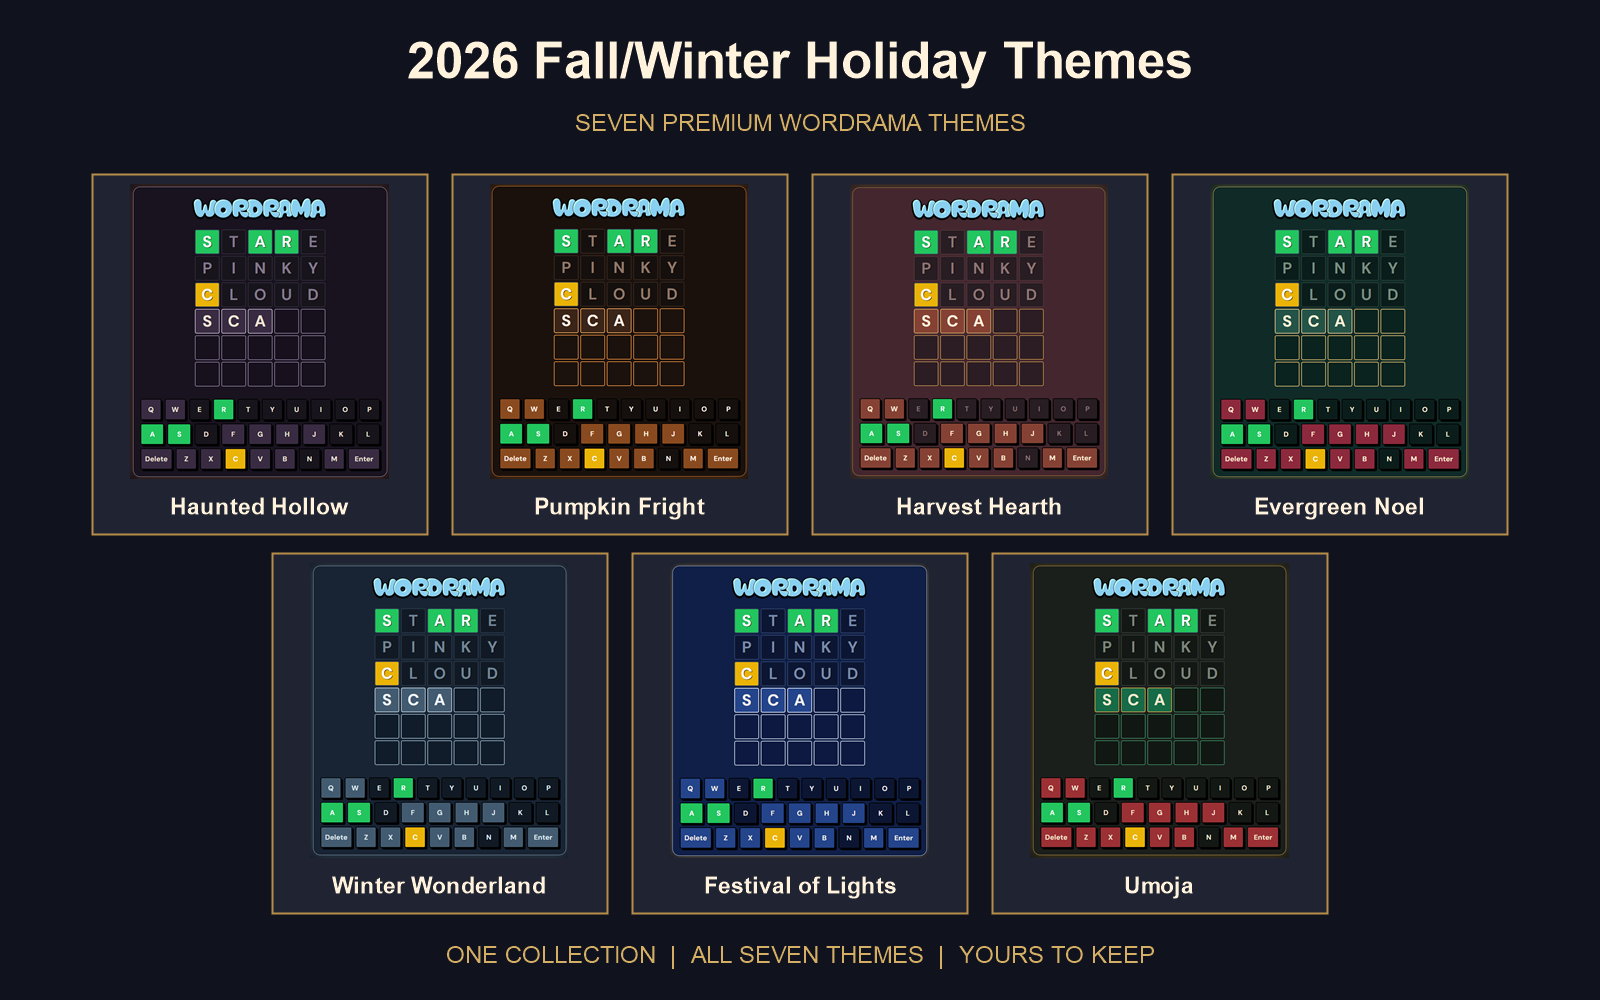
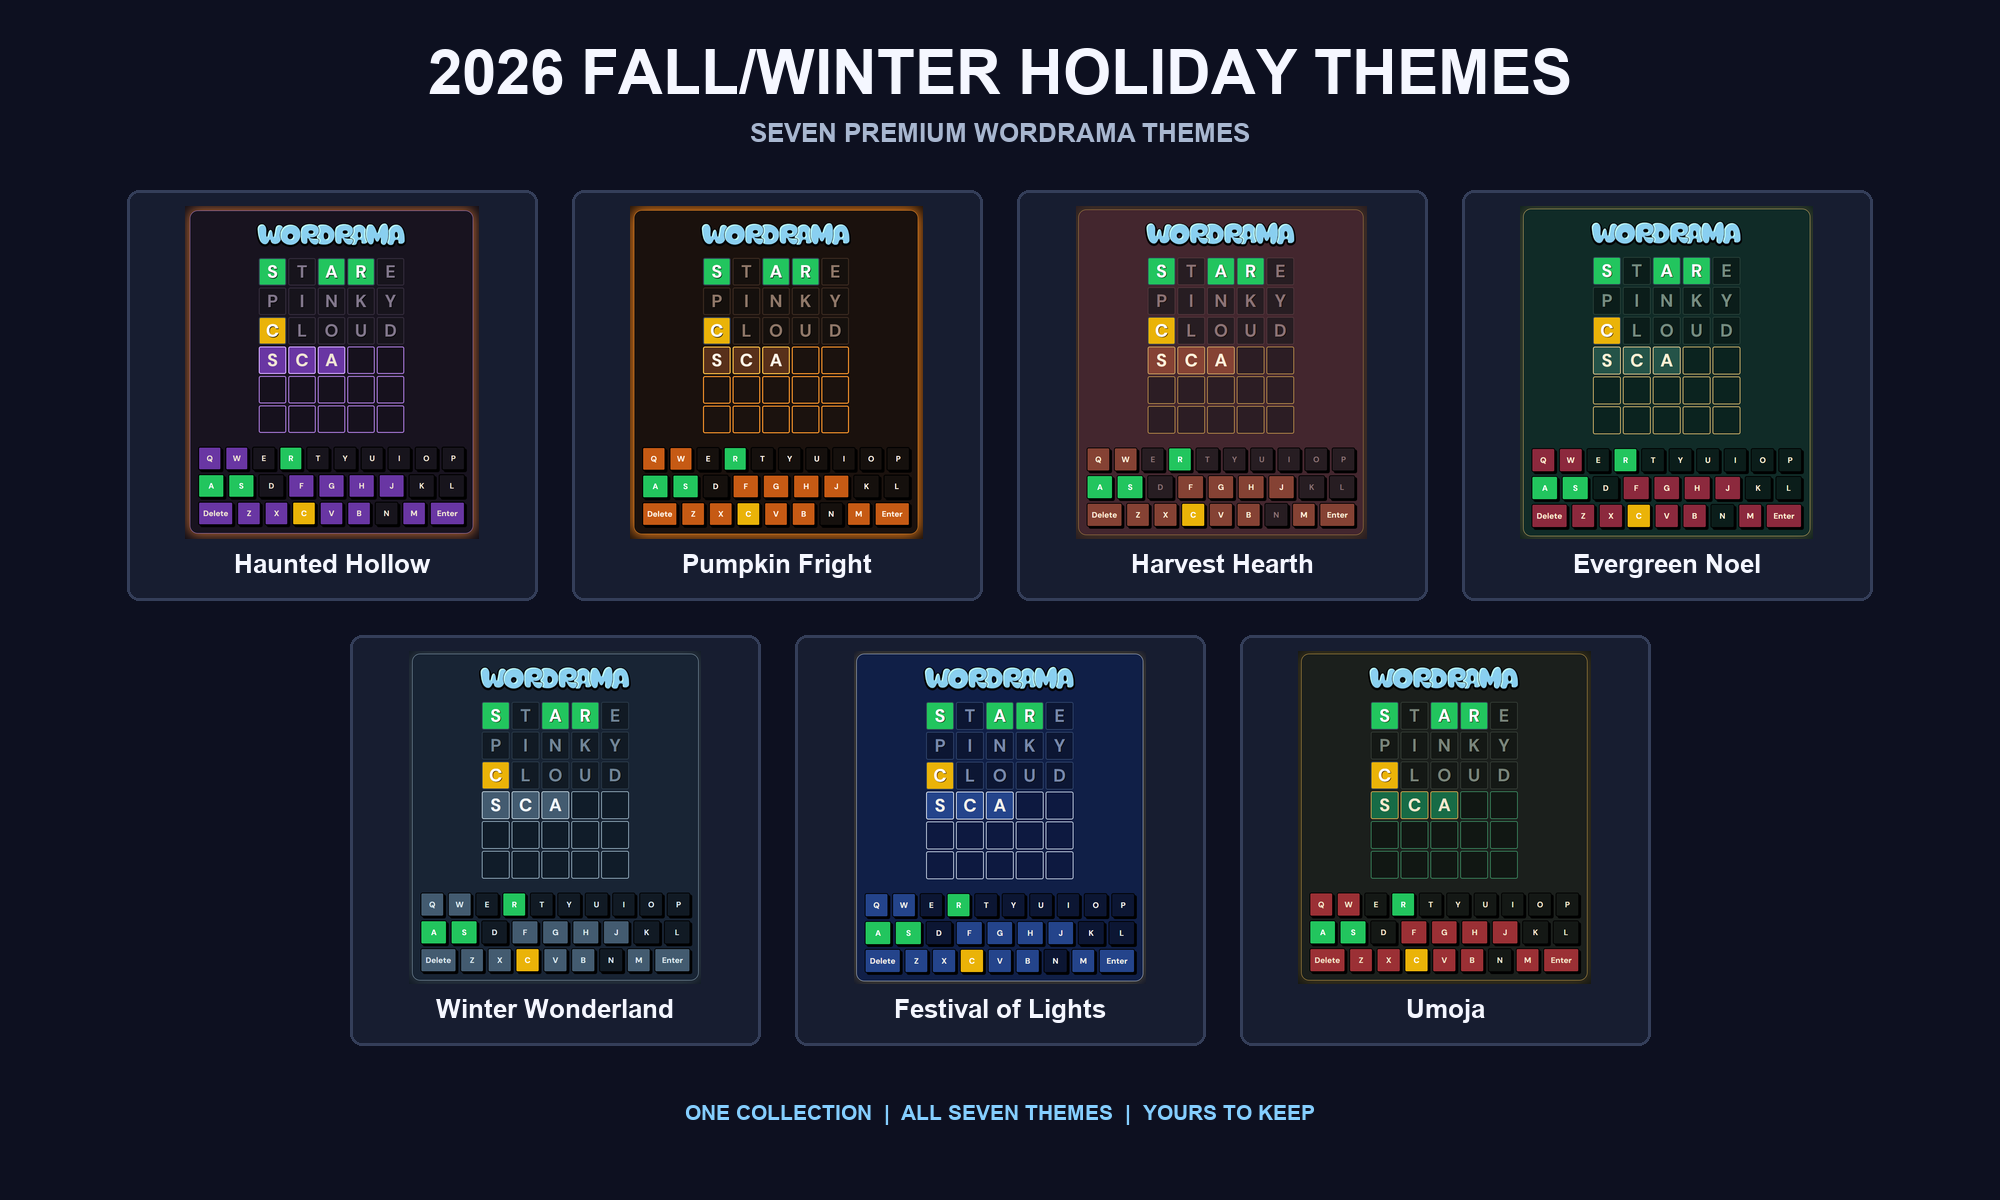
style: brighten Halloween theme palettes and refresh previews

Changed region(s): [[0.0625, 0.031, 0.9375, 0.961]]

diff --git a/wordrama-v2-main/wordrama-v2-main/src/config/themes.ts b/wordrama-v2-main/wordrama-v2-main/src/config/themes.ts
@@ -1185,12 +1185,12 @@ export const appearanceThemes: AppearanceTheme[] = [
     app: {
       background: 'bg-[#100D16]',
       panel:
-        'bg-[#201827] text-[#F0E5D5] border border-[#74667F]',
+        'bg-[#201827] text-[#F0E5D5] border border-[#9364C8]',
       text: 'text-[#F0E5D5]',
       gameSurface:
-        'bg-[#18131F] text-[#F0E5D5] border border-[#A99BB8] shadow-[0_0_24px_3px_rgba(185,104,53,0.35)]',
+        'bg-[#18131F] text-[#F0E5D5] border border-[#B78AE8] shadow-[0_0_24px_3px_rgba(185,104,53,1.0)]',
       actionButton:
-        'bg-[#382B42] hover:bg-[#4D3A59] active:bg-[#201827] text-[#F0E5D5] border border-[#B96835] shadow-[0_0_10px_rgba(185,104,53,0.20)]',
+        'bg-[#6936A3] hover:bg-[#8145C4] active:bg-[#201827] text-[#F0E5D5] border border-[#B96AFF] shadow-[0_0_10px_rgba(185,104,53,0.20)]',
     },
 
     surface: {
@@ -1207,16 +1207,16 @@ export const appearanceThemes: AppearanceTheme[] = [
 
     board: {
       emptyCell:
-        'bg-[#16111D] border-[#887794] text-[#F0E5D5]',
+        'bg-[#16111D] border-[#A879D9] text-[#F0E5D5]',
       filledCell:
-        'bg-[#382B42] border-[#C2B1CD] text-[#F0E5D5]',
+        'bg-[#6936A3] border-[#D2A8FF] text-[#F0E5D5]',
       absentCell:
         'bg-[#17141C] border-[#332B3B] text-[#82778C]',
     },
 
     keyboard: {
       key:
-        'bg-[#382B42] hover:bg-[#4D3A59] active:bg-[#5B4768] border border-[#74667F]',
+        'bg-[#6936A3] hover:bg-[#8145C4] active:bg-[#9957DE] border border-[#9364C8]',
       keyText: 'text-[#F0E5D5]',
       absentKey:
         'bg-[#17141C] border border-[#332B3B] text-[#82778C]',
@@ -1224,7 +1224,7 @@ export const appearanceThemes: AppearanceTheme[] = [
 
     modal: {
       container:
-        'bg-[#201827] border border-[#A99BB8] text-[#F0E5D5] shadow-2xl shadow-black/80',
+        'bg-[#201827] border border-[#B78AE8] text-[#F0E5D5] shadow-2xl shadow-black/80',
       title: 'text-[#F0E5D5]',
       icon: 'stroke-[#D2EDD8]',
     },
@@ -1233,7 +1233,7 @@ export const appearanceThemes: AppearanceTheme[] = [
       success: 'text-[#9ED8B4]',
       warning: 'text-[#E6C275]',
       error: 'text-[#E89A9A]',
-      info: 'text-[#C2B1CD]',
+      info: 'text-[#D2A8FF]',
     },
 
     overlay: {
@@ -1241,8 +1241,8 @@ export const appearanceThemes: AppearanceTheme[] = [
     },
 
     border: {
-      default: 'border-[#74667F]',
-      strong: 'border-[#C2B1CD]',
+      default: 'border-[#9364C8]',
+      strong: 'border-[#D2A8FF]',
     },
 
     effects: {
@@ -1261,12 +1261,12 @@ export const appearanceThemes: AppearanceTheme[] = [
 
     app: {
       background: 'bg-[#120B08]',
-      panel: 'bg-[#22130D] text-[#F6E8D2] border border-[#C96B2C]',
+      panel: 'bg-[#22130D] text-[#F6E8D2] border border-[#FF8A1F]',
       text: 'text-[#F6E8D2]',
       gameSurface:
-        'bg-[#1A110D] text-[#F6E8D2] border border-[#E28A3B] shadow-[0_0_30px_4px_rgba(226,138,59,0.35)]',
+        'bg-[#1A110D] text-[#F6E8D2] border border-[#FF982C] shadow-[0_0_30px_4px_rgba(255,138,31,1.0)]',
       actionButton:
-        'bg-[#8A4A1F] hover:bg-[#A85A28] active:bg-[#6B3514] text-[#FFF4E8] border border-[#F2A65A] shadow-[0_0_10px_rgba(226,138,59,0.28)]',
+        'bg-[#C65A14] hover:bg-[#E87318] active:bg-[#A9470D] text-[#FFF4E8] border border-[#FFC247] shadow-[0_0_10px_rgba(255,138,31,0.35)]',
     },
 
     surface: {
@@ -1283,16 +1283,16 @@ export const appearanceThemes: AppearanceTheme[] = [
 
     board: {
       emptyCell:
-        'bg-[#1B120E] border-[#E28A3B] text-[#F6E8D2]',
+        'bg-[#1B120E] border-[#FF982C] text-[#F6E8D2]',
       filledCell:
-        'bg-[#3B2418] border-[#F2A65A] text-[#FFF4E8]',
+        'bg-[#58301A] border-[#FFC247] text-[#FFF4E8]',
       absentCell:
         'bg-[#15100D] border-[#3B2A20] text-[#8F7768]',
     },
 
     keyboard: {
       key:
-        'bg-[#8A4A1F] hover:bg-[#A85A28] active:bg-[#6B3514] border border-[#C96B2C]',
+        'bg-[#C65A14] hover:bg-[#E87318] active:bg-[#A9470D] border border-[#FF8A1F]',
       keyText: 'text-[#FFF4E8]',
       absentKey:
         'bg-[#15100D] border border-[#3B2A20] text-[#8F7768]',
@@ -1300,16 +1300,16 @@ export const appearanceThemes: AppearanceTheme[] = [
 
     modal: {
       container:
-        'bg-[#22130D] border border-[#E28A3B] text-[#F6E8D2] shadow-2xl shadow-black/80',
+        'bg-[#22130D] border border-[#FF982C] text-[#F6E8D2] shadow-2xl shadow-black/80',
       title: 'text-[#FFF4E8]',
-      icon: 'stroke-[#F2A65A]',
+      icon: 'stroke-[#FFC247]',
     },
 
     feedback: {
       success: 'text-[#8BE28B]',
       warning: 'text-[#F6C453]',
       error: 'text-[#F28B82]',
-      info: 'text-[#F2A65A]',
+      info: 'text-[#FFC247]',
     },
 
     overlay: {
@@ -1317,8 +1317,8 @@ export const appearanceThemes: AppearanceTheme[] = [
     },
 
     border: {
-      default: 'border-[#C96B2C]',
-      strong: 'border-[#F2A65A]',
+      default: 'border-[#FF8A1F]',
+      strong: 'border-[#FFC247]',
     },
 
     effects: {
